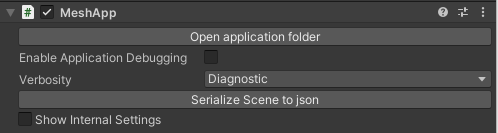
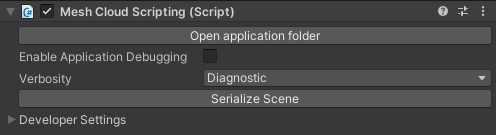
More documentation updates

diff --git a/mesh/Create/develop/script-your-scene-logic/cloud-scripting-troubleshooting.md b/mesh/Create/develop/script-your-scene-logic/cloud-scripting-troubleshooting.md
@@ -19,7 +19,7 @@ If a Mesh App stage during the Uploader process failed and the error shown is "C
 ### Mesh App Package Installation Failed
 1. If you encounter errors related to package installation or dotnet tool installation (`The tool package could not be restored` or `Verify your unity package integrity`), verify that you don't have non-valid package sources in your global nuget config (under `c:\users\UserName\AppData\Roaming\nuget\nuget.config` or default nuget config directory which is configured on the machine)
 2. If you encounter `package is already installed` error when starting Play Mode, exiting Play Mode and starting it again should mitigate that
-3. Verify access rights on directory `Assets\.MeshApps\.Packages`
+3. Verify access rights on directory `Assets\.MeshCloudScripting\.Packages`
 
 ### Mesh App Deploy & Publish Fails Due to Incorrect Azure Account being used.
 If you use multiple Azure accounts for deploying and publishing to multiple tenants, you will need to logout between environment publishing runs.
@@ -30,10 +30,10 @@ If you use multiple Azure accounts for deploying and publishing to multiple tena
 ## After running `meshapp publish`, nothing happens
 This error has been identified to be a build error.
 1. Use `Ctrl + C` to exit the command's execution.
-2. Rerun the command with the dotnet verbosity flag: `meshapp publish -v normal`. If logs still aren't informative enough to debug, increase the verbosity to `detailed` or `diagnostic`.
+2. Rerun the command with the dotnet verbosity flag: `meshcs publish -v normal`. If logs still aren't informative enough to debug, increase the verbosity to `detailed` or `diagnostic`.
 3. If build errors occurred, resolve them by doing the following:
    1. Open the csproj file for your Mesh App, then clean the project, and then rebuild it.
-   2. Rerun the `meshapp publish` command.
+   2. Rerun the `meshcs publish` command.
 
 ## After pressing play in Unity, nothing happens
 
@@ -46,12 +46,12 @@ This error has been identified to be a build error.
 
 1. Ensure that the scene plays as expected when you preview it locally.
 2. Ensure that the deployed environment matches the scene.map used by the Mesh App. To learn more about how this happens, see [the Mesh Scripting Getting Started Guide](Mesh_Scripting_Getting_Started_Guide.md#serialize-scene). TBD
-    1. In the Unity project, navigate to the **MeshApp** component and then press `Serialize Scene` to force scenegraph serialization.
+    1. In the Unity project, navigate to the **Mesh Cloud Scripting** component and then press `Serialize Scene` to force scenegraph serialization.
     2. Re-upload your environment with the Mesh Uploader.
     3. Re-deploy your Mesh App with the [CLI tool](Mesh_Scripting_Getting_Started_Guide.md#deploy-application-and-interactive-world-template).
 3. Test your local Unity version [against the deployed app](Mesh_Scripting_Getting_Started_Guide.md#connect-to-deployed-application-from-unity).
    - Check the logs in Unity for any errors if not working.
-4. You may need to manually restart the Mesh App to ensure that it's running correctly. From the root of the project, run `meshapp restart`, and then wait for the process to complete.
+4. You may need to manually restart the Mesh App to ensure that it's running correctly. From the root of the project, run `meshcs restart`, and then wait for the process to complete.
 5. If nothing helps, [report a bug](#how-to-report-bugs).
    -Inspect [Mesh app logs](#how-to-collect-logs), and include relevant information where possible in your bug report.
 

diff --git a/mesh/Create/develop/script-your-scene-logic/cloud-scripting-programmers-guide.md b/mesh/Create/develop/script-your-scene-logic/cloud-scripting-programmers-guide.md
@@ -139,15 +139,15 @@ Here's a simple Mesh app that rotates the cube each time it's clicked.  Replace 
         public Task StartAsync(CancellationToken token)
         {
             // First we find the TransformNode that corresponds to our Cube gameobject
-            var transform = _app.Scene.FindFirstChild<TransformNode>(); 
+            var transform = _app.Scene.FindFirstChild<TransformNode>();
 
-            // Then we find the TouchSensorNode child of that TransformNode
-            var touchSensor = transform.FindFirstChild<TouchSensorNode>();
+            // Then we find the InteractableNode child of that TransformNode
+            var sensor = transform.FindFirstChild<InteractableNode>();
 
-            // There's no Click event yet, so we'll listen to changes on the ClickTime property
-            touchSensor.Clicked += (_, _) =>
+            // Handle a button click
+            sensor.Selected += (_, _) =>
             {
-              // And we'll update the angle on each click
+                // Update the angle on each click
                 _angle += MathF.PI / 8;
                 transform.Rotation = new Rotation { X = 1, Y = 0, Z = 0, Angle = _angle };
             };

diff --git a/mesh/Create/develop/script-your-scene-logic/cloud-scripting-basic-concepts.md b/mesh/Create/develop/script-your-scene-logic/cloud-scripting-basic-concepts.md
@@ -123,7 +123,7 @@ The parties work together as illustrated below:
 
 ![Authentication Flow](../../../media/mesh-scripting/basic-concepts/Authentication_Diagram.png)
 
-Once you've tested from Unity, and you're ready to go live with your MeshApp, update the **Mode** option to **Prod** in the Mesh Uploader Settings located in your Unity project's settings. Select the "Force Deployment" option and use the Mesh Uploader to **Build and Publish** your MeshApp and Environment.
+Once you've tested from Unity, and you're ready to go live with your MeshApp, update the **Mode** option to **Prod** in the Mesh Uploader Settings located in your Unity project's settings. Use the Mesh Uploader to **Build and Publish** your MeshApp and Environment.
 
 ## Next steps
 
